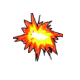
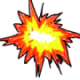
tried explosion anim

diff --git a/Explosion.java b/Explosion.java
@@ -11,13 +11,18 @@ public class Explosion extends Actor
      int animinterval= 10;
     int framecounteranim= 0;
     GreenfootImage [] arrow;
-    
+    int fc=0;
     
     public void act()
     {
         loadImages();
         animate(arrow);
-        
+        fc++;
+        if (fc>50)
+        {
+            getWorld().removeObject(this);
+            fc=0;
+        }
         
     }
     
@@ -33,7 +38,7 @@ public class Explosion extends Actor
             setImage(images[framecounteranim/animinterval]);
         }
         
-        getWorld().removeObject(this);
+        
         framecounteranim++;
     }
     
@@ -44,7 +49,7 @@ public class Explosion extends Actor
         
         for(int i= 0; i<arrow.length;i++)
         {
-            String imgpath= "explosion/"+i+".png";
+            String imgpath= "Xp"+i+".png";
             arrow[i]= new GreenfootImage(imgpath);
         }
         

diff --git a/Bullet.java b/Bullet.java
@@ -27,6 +27,11 @@ public class Bullet extends Actor
                 FrameCount = 0;
             }   
         }
+        
+        if (isTouching(Wall.class)||isTouching(Players.class))
+        {
+            getWorld().addObject(new Explosion(), getX(), getY());
+        }
     }
     
     public boolean touchingcond()

diff --git a/Bullet2.java b/Bullet2.java
@@ -27,6 +27,10 @@ public class Bullet2 extends Actor
                 FrameCount = 0;
             }   
         }
+        if (isTouching(Wall.class)||isTouching(Players.class))
+        {
+            getWorld().addObject(new Explosion(), getX(), getY());
+        }
     }
     
     public boolean touchingcond()
